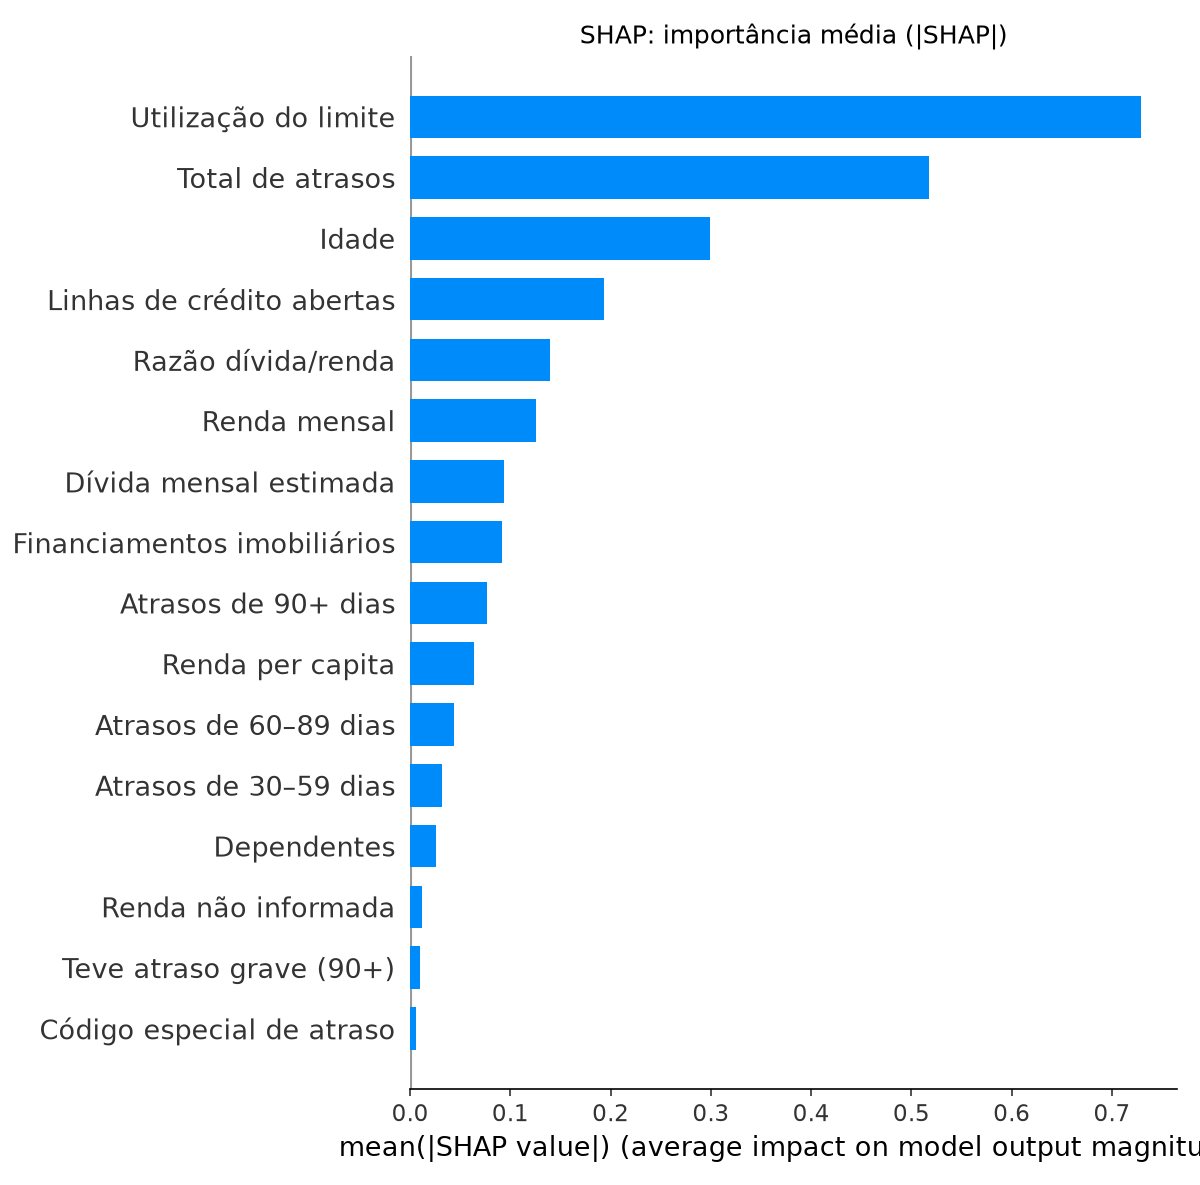
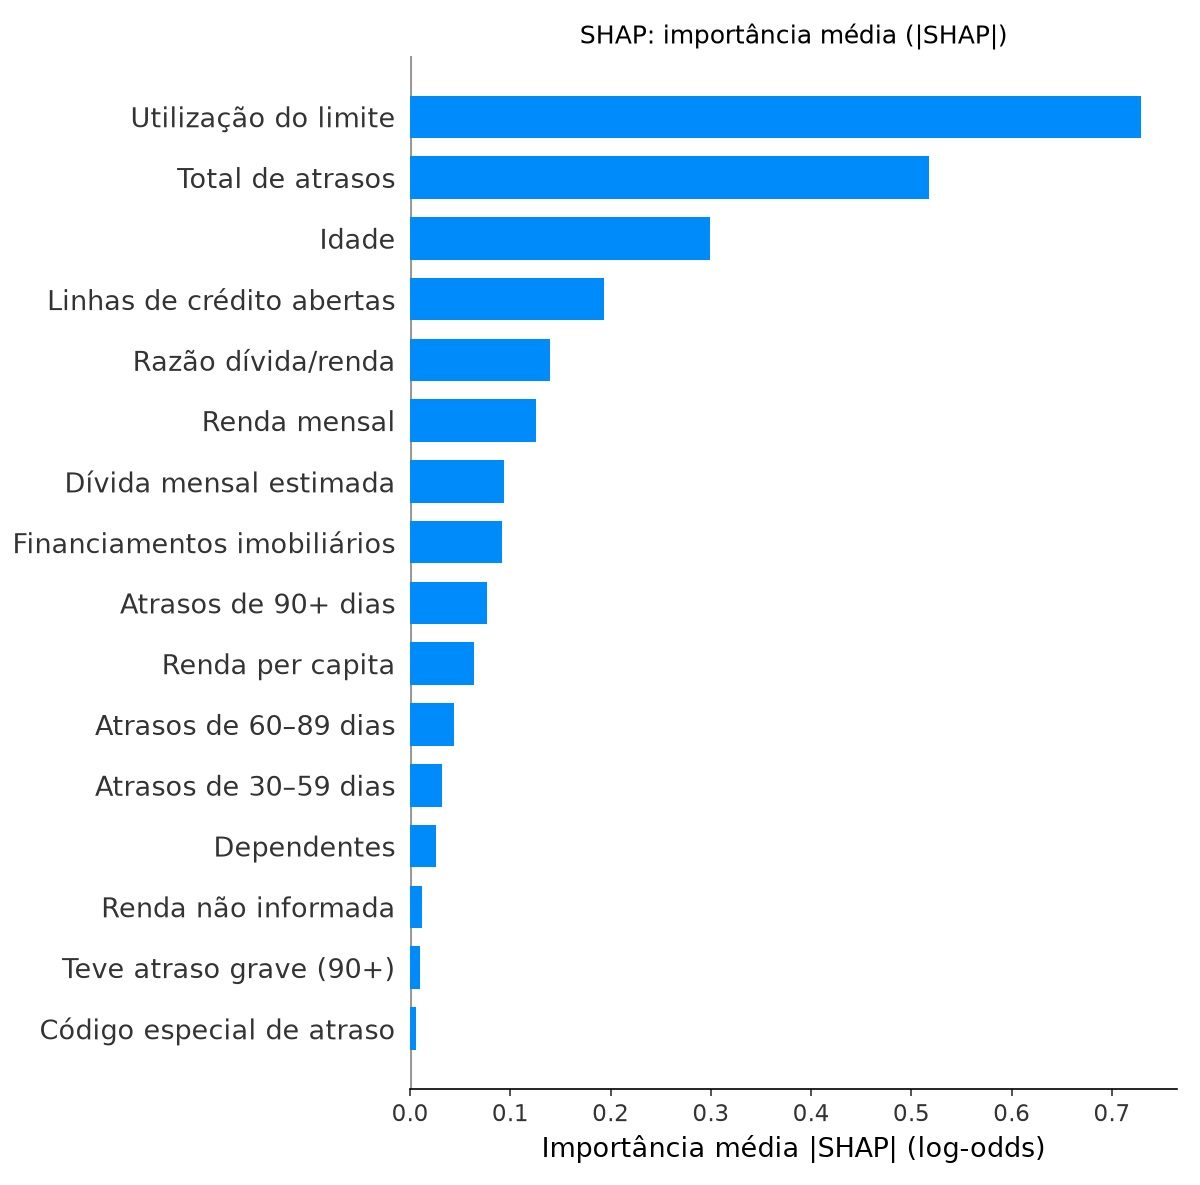
UI: testes AppTest, screenshots, rotulos pt-BR no SHAP e documentacao (ADR-14)

diff --git a/tools/screenshots.py b/tools/screenshots.py
@@ -1,0 +1,62 @@
+"""Gera screenshots de todas as páginas (1366×768 e 1920×1080) e dos 3 perfis do Simulador.
+Ferramenta de desenvolvimento (fora do requirements.txt): pip install playwright && playwright install chromium
+Uso: suba o app (streamlit run app/streamlit_app.py --server.port 8601) e rode: python tools/screenshots.py [url]"""
+import re
+import sys
+from pathlib import Path
+
+from playwright.sync_api import sync_playwright
+
+BASE = (sys.argv[1] if len(sys.argv) > 1 else "http://localhost:8601").rstrip("/")
+OUT = Path(__file__).resolve().parents[1] / "reports" / "screenshots"
+OUT.mkdir(parents=True, exist_ok=True)
+VIEWPORTS = {"1366x768": (1366, 768), "1920x1080": (1920, 1080)}
+PAGES = ["inicio", "simulador", "desempenho", "explicabilidade", "equidade", "sobre"]
+PROFILES = [("Bom", "bom"), ("Limítrofe", "limitrofe"), ("Arriscado", "arriscado")]
+
+
+def shot(page, name, w, h):
+    """O Streamlit rola dentro de [data-testid=stMain]; amplia o viewport para capturar tudo."""
+    total = page.evaluate("document.querySelector('[data-testid=stMain]').scrollHeight")
+    page.set_viewport_size({"width": w, "height": max(h, total)})
+    page.wait_for_timeout(700)
+    page.screenshot(path=str(OUT / name))
+    page.set_viewport_size({"width": w, "height": h})
+
+
+def ready(page):
+    page.wait_for_selector(".sw-footer", timeout=90_000)
+    page.wait_for_timeout(1800)  # gráficos Plotly e animações
+
+
+with sync_playwright() as pw:
+    browser = pw.chromium.launch()
+    for vp_name, (w, h) in VIEWPORTS.items():
+        page = browser.new_page(viewport={"width": w, "height": h})
+        errors = []
+        page.on("pageerror", lambda e: errors.append(str(e)))
+        for name in PAGES:
+            page.goto(f"{BASE}/{name}")
+            ready(page)
+            if name != "simulador":
+                shot(page, f"{name}_{vp_name}.png", w, h)
+        page.goto(f"{BASE}/simulador")
+        ready(page)
+        for label, slug in PROFILES:
+            page.get_by_role("button", name=re.compile(rf"\b{label}\b")).first.click()
+            page.wait_for_timeout(600)
+            page.get_by_role("button", name=re.compile("Analisar proposta")).click()
+            page.wait_for_selector(".sw-decision", timeout=60_000)
+            page.wait_for_selector(".js-plotly-plot", timeout=60_000)
+            page.wait_for_timeout(1800)
+            if slug == "limitrofe":  # o que a plateia vê sem rolar
+                page.evaluate("document.querySelector('[data-testid=stMain]').scrollTo(0, 0)")
+                page.wait_for_timeout(500)
+                page.screenshot(path=str(OUT / f"simulador_limitrofe_{vp_name}_viewport.png"))
+            shot(page, f"simulador_{slug}_{vp_name}.png", w, h)
+        # fonte realmente aplicada (Inter pode cair no fallback sem internet)
+        fam = page.evaluate("getComputedStyle(document.querySelector('.sw-kpi-value, .sw-decision-label, h5')).fontFamily")
+        print(vp_name, "| fonte computada:", fam, "| erros JS:", errors or "nenhum")
+        page.close()
+    browser.close()
+print("ok ->", OUT)

diff --git a/tests/test_app.py b/tests/test_app.py
@@ -1,0 +1,62 @@
+import re
+
+import pytest
+from streamlit.testing.v1 import AppTest
+
+from config import MODEL_PATH, ROOT
+
+pytestmark = pytest.mark.skipif(not MODEL_PATH.exists(), reason="rode `python src/train.py` antes")
+
+APP = str(ROOT / "app" / "streamlit_app.py")
+PAGES = ["1_inicio", "2_simulador", "3_desempenho", "4_explicabilidade", "5_equidade", "6_sobre"]
+
+
+def _open(page: str) -> AppTest:
+    at = AppTest.from_file(APP, default_timeout=120).run()
+    assert not at.exception, at.exception
+    return at.switch_page(f"pages/{page}.py").run()
+
+
+def _card_html(at: AppTest) -> str:
+    return " ".join(m.value for m in at.markdown if "sw-decision" in m.value and "<style>" not in m.value)
+
+
+@pytest.mark.parametrize("page", PAGES)
+def test_cada_pagina_carrega_sem_excecao(page):
+    at = _open(page)
+    assert not at.exception, at.exception
+    assert not at.error  # nenhum st.error (ex.: métricas ausentes)
+
+
+@pytest.mark.parametrize("botao,esperado", [("perfil_bom", "APROVAR"), ("perfil_limitrofe", "REVISAR"), ("perfil_arriscado", "RECUSAR")])
+def test_simulador_perfis_geram_a_decisao_esperada(botao, esperado):
+    at = _open("2_simulador")
+    at.button(key=botao).click().run()
+    at.button(key="analisar").click().run()
+    assert not at.exception, at.exception
+    card = _card_html(at)
+    assert esperado in card
+    assert "<svg" in card  # decisão nunca só por cor: ícone + texto
+    assert len(at.dataframe) >= 1  # histórico da sessão
+
+
+def test_simulador_pd_nos_extremos_e_motivos():
+    at = _open("2_simulador")
+    at.button(key="perfil_bom").click().run()
+    at.button(key="analisar").click().run()
+    assert "&lt; 1%" in _card_html(at) or "< 1%" in _card_html(at)
+
+    at.button(key="perfil_arriscado").click().run()
+    at.button(key="analisar").click().run()
+    chips = [m.value for m in at.markdown if "sw-chip" in m.value and "<style>" not in m.value]
+    assert len(chips) == 3
+    assert not any("etário" in c for c in chips)  # ADR-13
+    assert re.search(r"[\d,]+%", _card_html(at))
+
+
+def test_simulador_entrada_invalida_mostra_erro_sem_quebrar():
+    at = _open("2_simulador")
+    at.number_input(key="f_idade").set_value(18).run()
+    at.number_input(key="f_utilizacao_limite").set_value(10.0).run()
+    at.button(key="analisar").click().run()
+    assert not at.exception

diff --git a/src/explain.py b/src/explain.py
@@ -105,6 +105,10 @@ def main():
 
     plt.figure()
     shap.summary_plot(sv, Xt_pt, show=False, max_display=16)
+    plt.gca().set_xlabel("Impacto no risco (SHAP, log-odds)")
+    cbar = plt.gcf().axes[-1]  # rótulos em português (o shap só gera em inglês)
+    cbar.set_ylabel("Valor da variável")
+    cbar.set_yticklabels(["Baixo", "Alto"])
     plt.title("SHAP: impacto de cada variável no risco (log-odds)")
     plt.tight_layout()
     plt.savefig(FIGURES_DIR / "shap_summary.png", dpi=150)
@@ -112,6 +116,7 @@ def main():
 
     plt.figure()
     shap.summary_plot(sv, Xt_pt, plot_type="bar", show=False, max_display=16)
+    plt.gca().set_xlabel("Importância média |SHAP| (log-odds)")
     plt.title("SHAP: importância média (|SHAP|)")
     plt.tight_layout()
     plt.savefig(FIGURES_DIR / "shap_bar.png", dpi=150)

diff --git a/README.md b/README.md
@@ -22,6 +22,14 @@ python src\train.py; python src\evaluate.py; python src\explain.py; python src\f
 streamlit run app\streamlit_app.py
 ```
 
+## Demo
+
+Seis páginas (Início, Simulador, Desempenho, Explicabilidade, Equidade, Sobre). No **Simulador**, use os perfis rápidos (Bom, Limítrofe, Arriscado) e clique em *Analisar proposta*.
+
+![Simulador](reports/screenshots/simulador_limitrofe_1366x768_viewport.png)
+
+Mais capturas (1366×768 e 1920×1080) em `reports/screenshots/`; para regenerá-las: `pip install playwright`, `playwright install chromium` e `python tools/screenshots.py` com o app rodando na porta 8601.
+
 Testes: `pytest` (rode depois do treino; `test_predict.py` precisa do `model.joblib`).
 
 ## O que cada comando gera
@@ -43,7 +51,8 @@ O treino é reprodutível: `random_state=42` e duas execuções geram o mesmo `c
 data/raw/               cs-training.csv (fora do git)
 notebooks/01_eda.ipynb  EDA (figuras em reports/figures/eda_*.png)
 src/                    config, data, features, train, evaluate, explain, fairness, predict
-app/streamlit_app.py    demo
+app/                    demo (streamlit_app.py, pages/, ui/)
+tools/screenshots.py    capturas de tela da demo (Playwright, dev)
 models/                 model.joblib (gerado, fora do git)
 reports/                figures/, metrics/, relatorio.md, slides/roteiro.md
 tests/                  test_data, test_features, test_predict
